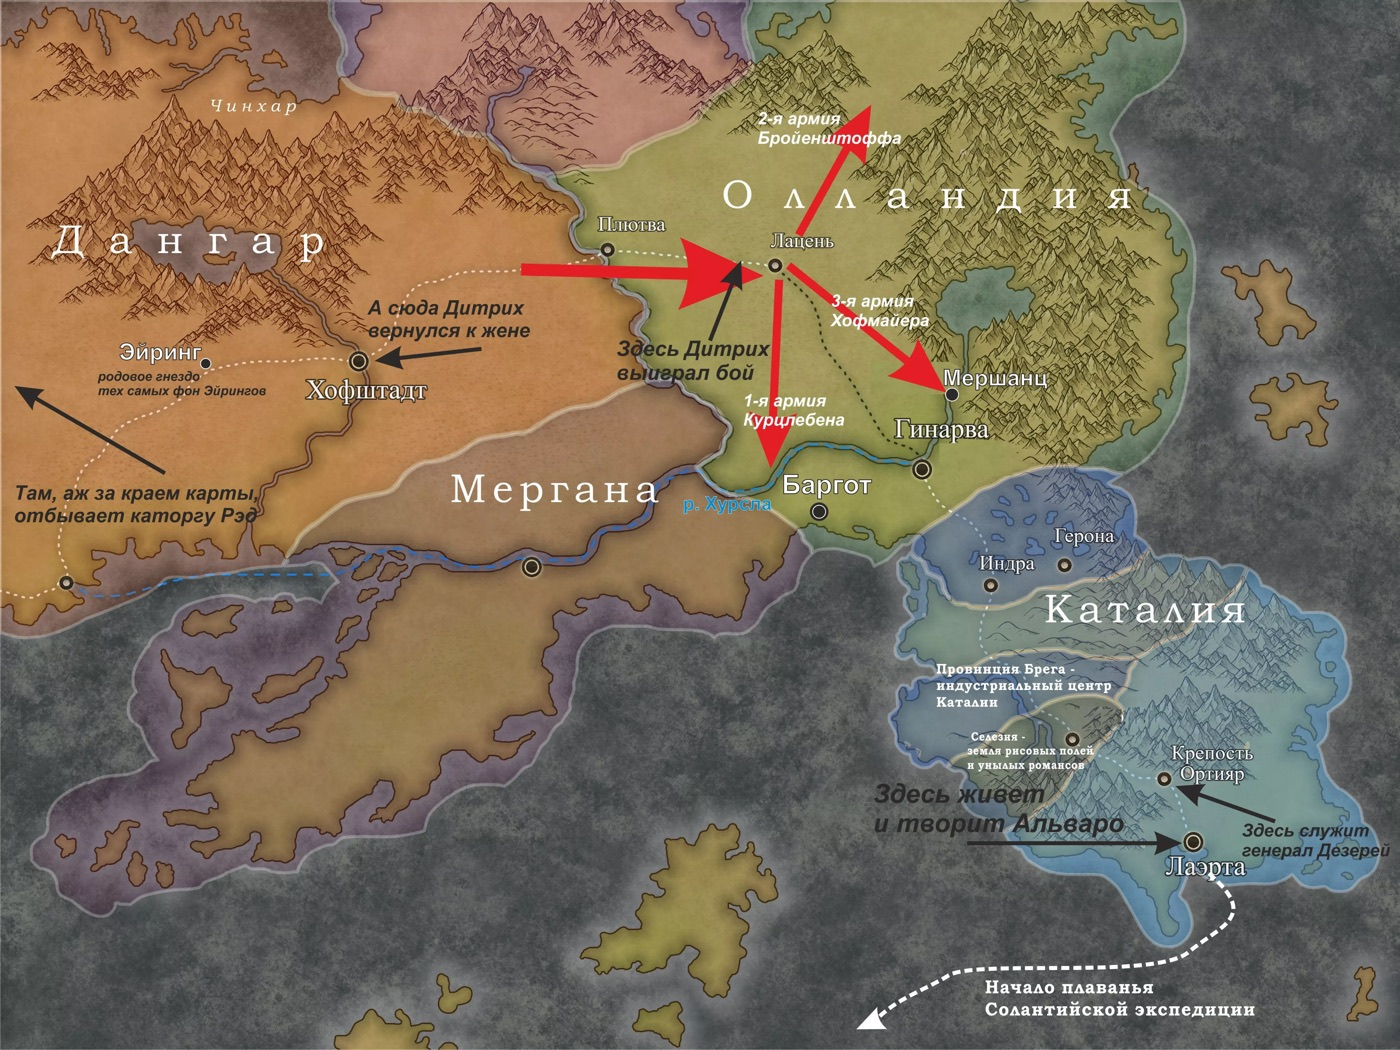
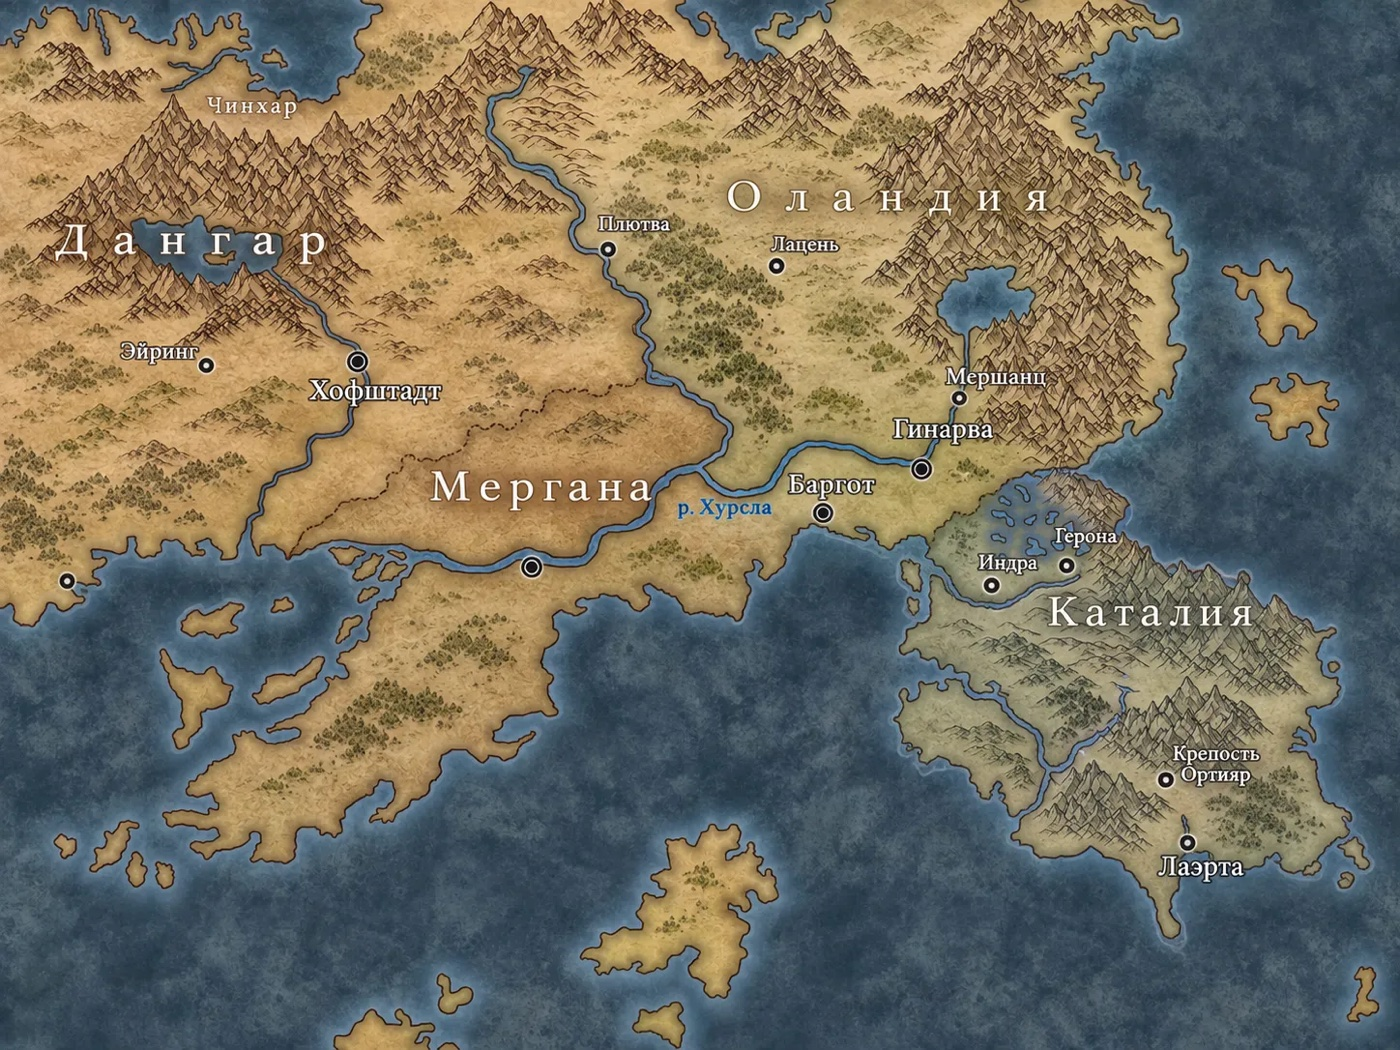
Новая главная карта мира колодцев (без пометок); карта рисуется в фиксированном логическом размере

diff --git a/web/src/app/pages/map/map-page.html b/web/src/app/pages/map/map-page.html
@@ -1,7 +1,7 @@
 <div class="page wide">
   <div class="crumbs"><a routerLink="/">Заглавная</a></div>
   <h1 class="page-title">Карта мира колодцев</h1>
-  <p class="page-sub">Авторская карта мира колодцев с пометками Романа Суржикова. Нажмите на метку, чтобы прочитать о месте. Шкала под картой ведёт по событиям романа, а маршрут показывает путь героя по главам.</p>
+  <p class="page-sub">Авторская карта мира колодцев. Нажмите на метку, чтобы прочитать о месте. Шкала под картой ведёт по событиям романа, а маршрут показывает путь героя по главам.</p>
 
   <div class="tools ui">
     <button class="btn" (click)="zoom(1.4)" aria-label="Приблизить">＋</button>
@@ -15,7 +15,7 @@
   <div class="stage" [class.folded]="tl.collapsed()">
   <div class="view" #view [class.labels]="labelsOn()" [class.hide-lands]="!showLands()" [class.hide-cities]="!showCities()"
     (wheel)="wheel($event)" (pointerdown)="down($event)" (pointermove)="move($event)" (pointerup)="up()" (pointerleave)="up()">
-    <img src="img/map.jpg" alt="Карта мира колодцев" draggable="false" [style.transform]="imgTransform()" (load)="imageLoaded()" />
+    <img src="img/map.jpg" alt="Карта мира колодцев" draggable="false" [style.width.px]="w0" [style.height.px]="h0" [style.transform]="imgTransform()" (load)="imageLoaded()" />
 
     @if (tl.journey().length > 1) {
       <svg class="jr-line" aria-hidden="true"><polyline [attr.points]="journeyPoints(tl.journey())" /></svg>

diff --git a/web/src/app/pages/map/map-page.ts b/web/src/app/pages/map/map-page.ts
@@ -5,7 +5,8 @@ import { WikiData } from '../../core/wiki-data';
 import { Stop } from './timeline';
 import { RouteStep, TimelinePanel } from './timeline-panel';
 
-const W0 = 3200, H0 = 2410;
+/** Logical size of the map image: it is always drawn at this size, whatever the resolution of the file. */
+const W0 = 3200, H0 = 2400;
 
 interface View { z: number; x: number; y: number; base: number; }
 
@@ -55,6 +56,8 @@ export class MapPage {
 
   protected px(p: MapPlace): number { const v = this.view(); return v.x + (p.x / 100) * W0 * v.z * v.base; }
   protected py(p: MapPlace): number { const v = this.view(); return v.y + (p.y / 100) * H0 * v.z * v.base; }
+  protected readonly w0 = W0;
+  protected readonly h0 = H0;
   protected imgTransform(): string { const v = this.view(); return `translate(${v.x}px, ${v.y}px) scale(${v.z * v.base})`; }
   protected labelsOn(): boolean { const v = this.view(); return v.z * v.base * W0 > 2600; }
 
